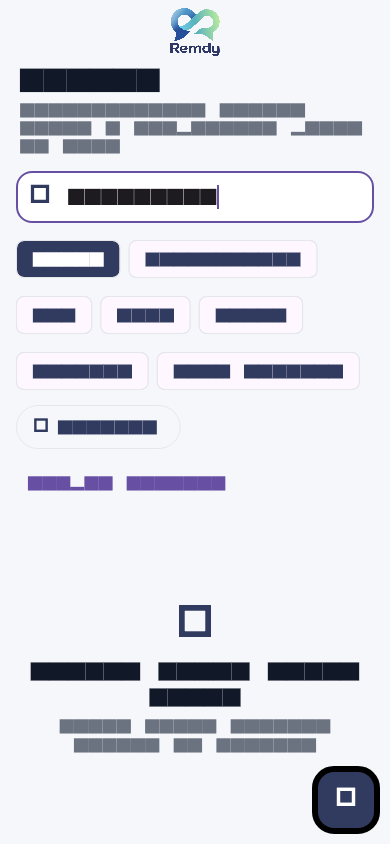
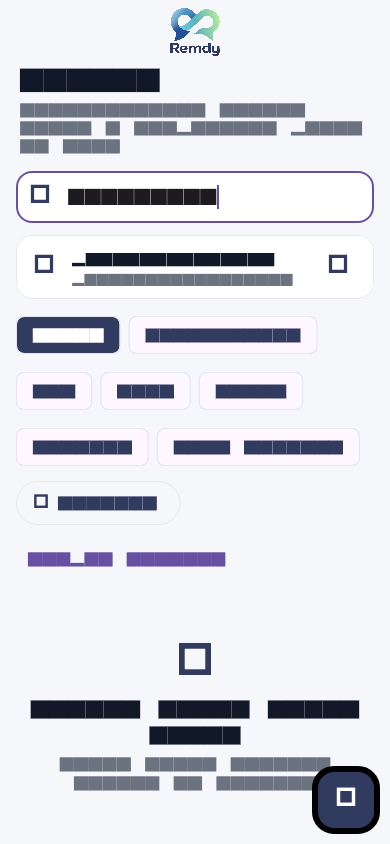
Locais/Eventos: cards 'Cadastre seu local grátis' e 'Divulgue grátis' no topo (5 idiomas, testes, goldens)

diff --git a/tool/screens/place_screens_test.dart b/tool/screens/place_screens_test.dart
@@ -17,6 +17,7 @@ import 'package:socialchat_mvp/features/locais/ui/locais_list_page.dart';
 import 'package:socialchat_mvp/features/locais/ui/place_editor_page.dart';
 import 'package:socialchat_mvp/features/locais/ui/place_submissions_page.dart';
 import 'package:socialchat_mvp/l10n/app_texts.dart';
+import 'package:socialchat_mvp/widgets/publish_cta_card.dart';
 
 const _fonts = '/Users/macbookairm1/Downloads/flutter/bin/cache/artifacts/material_fonts';
 
@@ -111,5 +112,39 @@ void main() {
     await tester.tap(find.text('Bar do Zé'));
     await tester.pumpAndSettle();
     await _shot(tester, '6_admin_aprovar_recusar');
+  });
+
+  testWidgets('cards de divulgação', (tester) async {
+    await _pump(tester, LocaisListPage(
+      repository: DemoPlaceRepository(),
+      clock: () => DateTime(2026, 10, 14, 15),
+    ));
+    await _shot(tester, '7_locais_card');
+    // Eventos: a página real depende do Firebase; captura o mesmo card
+    // com o fundo, a busca e os espaçamentos da aba Eventos.
+    await _pump(tester, Scaffold(
+      backgroundColor: const Color(0xFFF6F7FB),
+      body: SafeArea(child: Column(children: [
+        Padding(
+          padding: const EdgeInsets.fromLTRB(10, 5, 10, 6),
+          child: TextField(decoration: InputDecoration(
+            hintText: AppTexts.t('events_search_hint'),
+            prefixIcon: const Icon(Icons.search), filled: true, fillColor: Colors.white,
+            border: OutlineInputBorder(borderRadius: BorderRadius.circular(15)),
+          )),
+        ),
+        PublishCtaCard(
+          padding: const EdgeInsets.fromLTRB(10, 2, 10, 6),
+          icon: Icons.event_available_outlined,
+          title: AppTexts.t('event_cta_title'),
+          subtitle: AppTexts.t('event_cta_subtitle'),
+          onTap: () {},
+        ),
+      ])),
+      floatingActionButton: FloatingActionButton(
+        backgroundColor: const Color(0xFF313A5F), onPressed: () {},
+        child: const Icon(Icons.add, color: Colors.white)),
+    ));
+    await _shot(tester, '8_eventos_card');
   });
 }

diff --git a/lib/widgets/publish_cta_card.dart b/lib/widgets/publish_cta_card.dart
@@ -1,0 +1,52 @@
+import 'package:flutter/material.dart';
+
+/// Card pequeno de convite ("Cadastre seu local grátis" / "Divulgue grátis").
+/// Usa o mesmo padrão dos cards do app: fundo branco, borda #E5E7EB,
+/// azul Remdy #313A5F, textos #111827 / #6B7280, ListTile padrão.
+class PublishCtaCard extends StatelessWidget {
+  const PublishCtaCard({
+    super.key,
+    required this.icon,
+    required this.title,
+    required this.subtitle,
+    required this.onTap,
+    this.padding = const EdgeInsets.fromLTRB(16, 8, 16, 4),
+  });
+
+  final IconData icon;
+  final String title;
+  final String subtitle;
+  final VoidCallback onTap;
+  final EdgeInsetsGeometry padding;
+
+  static const Color _text = Color(0xFF111827);
+  static const Color _muted = Color(0xFF6B7280);
+  static const Color _border = Color(0xFFE5E7EB);
+  static const Color _blue = Color(0xFF313A5F);
+
+  @override
+  Widget build(BuildContext context) {
+    return Padding(
+      padding: padding,
+      child: Material(
+        color: Colors.white,
+        shape: RoundedRectangleBorder(
+          borderRadius: BorderRadius.circular(16),
+          side: const BorderSide(color: _border),
+        ),
+        clipBehavior: Clip.antiAlias,
+        child: ListTile(
+          dense: true,
+          onTap: onTap,
+          leading: Icon(icon, color: _blue),
+          title: Text(
+            title,
+            style: const TextStyle(fontWeight: FontWeight.w700, color: _text),
+          ),
+          subtitle: Text(subtitle, style: const TextStyle(color: _muted)),
+          trailing: const Icon(Icons.chevron_right_rounded, color: _blue),
+        ),
+      ),
+    );
+  }
+}

diff --git a/lib/features/locais/ui/locais_list_page.dart b/lib/features/locais/ui/locais_list_page.dart
@@ -1,5 +1,6 @@
 import 'package:flutter/material.dart';
 
+import '../../../widgets/publish_cta_card.dart';
 import '../../../l10n/app_texts.dart';
 import 'place_editor_page.dart';
 import '../../../widgets/remdy_logo.dart';
@@ -120,12 +121,7 @@ class _LocaisListPageState extends State<LocaisListPage> {
         heroTag: null,
         backgroundColor: LocaisColors.navy,
         tooltip: AppTexts.t('place_add_title'),
-        onPressed: () {
-          Navigator.push(
-            context,
-            MaterialPageRoute(builder: (_) => const PlaceEditorPage()),
-          );
-        },
+        onPressed: _openAddPlace,
         child: const Icon(Icons.add, color: Colors.white),
       ),
       body: SafeArea(
@@ -148,6 +144,15 @@ class _LocaisListPageState extends State<LocaisListPage> {
       slivers: [
         SliverToBoxAdapter(child: _header(strings)),
         SliverToBoxAdapter(child: _searchField(strings)),
+        SliverToBoxAdapter(
+          child: PublishCtaCard(
+            key: const Key('locais_add_place_card'),
+            icon: Icons.storefront_outlined,
+            title: AppTexts.t('place_cta_title'),
+            subtitle: AppTexts.t('place_cta_subtitle'),
+            onTap: _openAddPlace,
+          ),
+        ),
         SliverToBoxAdapter(child: _categories(strings)),
         SliverToBoxAdapter(child: _toolbar(strings)),
         if (_loading)
@@ -205,6 +210,13 @@ class _LocaisListPageState extends State<LocaisListPage> {
           ),
         ],
       ),
+    );
+  }
+
+  void _openAddPlace() {
+    Navigator.push(
+      context,
+      MaterialPageRoute(builder: (_) => const PlaceEditorPage()),
     );
   }
 

diff --git a/lib/pages/events_page_new.dart b/lib/pages/events_page_new.dart
@@ -2,6 +2,7 @@ import 'package:flutter/material.dart';
 import 'package:cloud_firestore/cloud_firestore.dart';
 import 'package:cloud_functions/cloud_functions.dart';
 import 'package:firebase_auth/firebase_auth.dart';
+import '../widgets/publish_cta_card.dart';
 import '../services/admin_access.dart';
 import 'create_event_page.dart';
 import 'edit_profile_page.dart';
@@ -1793,6 +1794,21 @@ Widget build(BuildContext context) {
                     _topHeader(),
                     _searchBox(
                       hint: _searchHintForScope(isBrazil: isBrazil),
+                    ),
+                    PublishCtaCard(
+                      key: const Key('events_create_event_card'),
+                      padding: const EdgeInsets.fromLTRB(10, 2, 10, 6),
+                      icon: Icons.event_available_outlined,
+                      title: AppTexts.t('event_cta_title'),
+                      subtitle: AppTexts.t('event_cta_subtitle'),
+                      onTap: () {
+                        Navigator.push(
+                          context,
+                          MaterialPageRoute(
+                            builder: (_) => const CreateEventPage(),
+                          ),
+                        );
+                      },
                     ),
                     _categoryFilters(),
                     _scopeFilters(myCity, countryLabel: countryLabel),

diff --git a/test/locais/place_submission_test.dart b/test/locais/place_submission_test.dart
@@ -22,6 +22,31 @@ void main() {
     expect(find.byKey(const Key('locais_add_place_fab')), findsOneWidget);
   });
 
+  testWidgets('card "Cadastre seu local grátis" abre Adicionar local', (
+    tester,
+  ) async {
+    await pumpLocais(tester, demoList());
+    await tester.pumpAndSettle();
+    expect(find.text('Tem um negócio? Cadastre seu local grátis'), findsOneWidget);
+    await tester.tap(find.byKey(const Key('locais_add_place_card')));
+    await tester.pumpAndSettle();
+    expect(find.byType(PlaceEditorPage), findsOneWidget);
+  });
+
+  test('textos dos cards nos 5 idiomas', () {
+    for (final l in ['pt-BR', 'pt-PT', 'en', 'es', 'fr']) {
+      final m = jsonDecode(File('lib/l10n/$l.json').readAsStringSync()) as Map;
+      for (final k in [
+        'place_cta_title',
+        'place_cta_subtitle',
+        'event_cta_title',
+        'event_cta_subtitle',
+      ]) {
+        expect((m[k] as String?)?.isNotEmpty, isTrue, reason: '$l $k');
+      }
+    }
+  });
+
   testWidgets('formulário em passos valida nome e cidade', (tester) async {
     await pumpLocais(tester, const PlaceEditorPage());
     await tester.pumpAndSettle();
